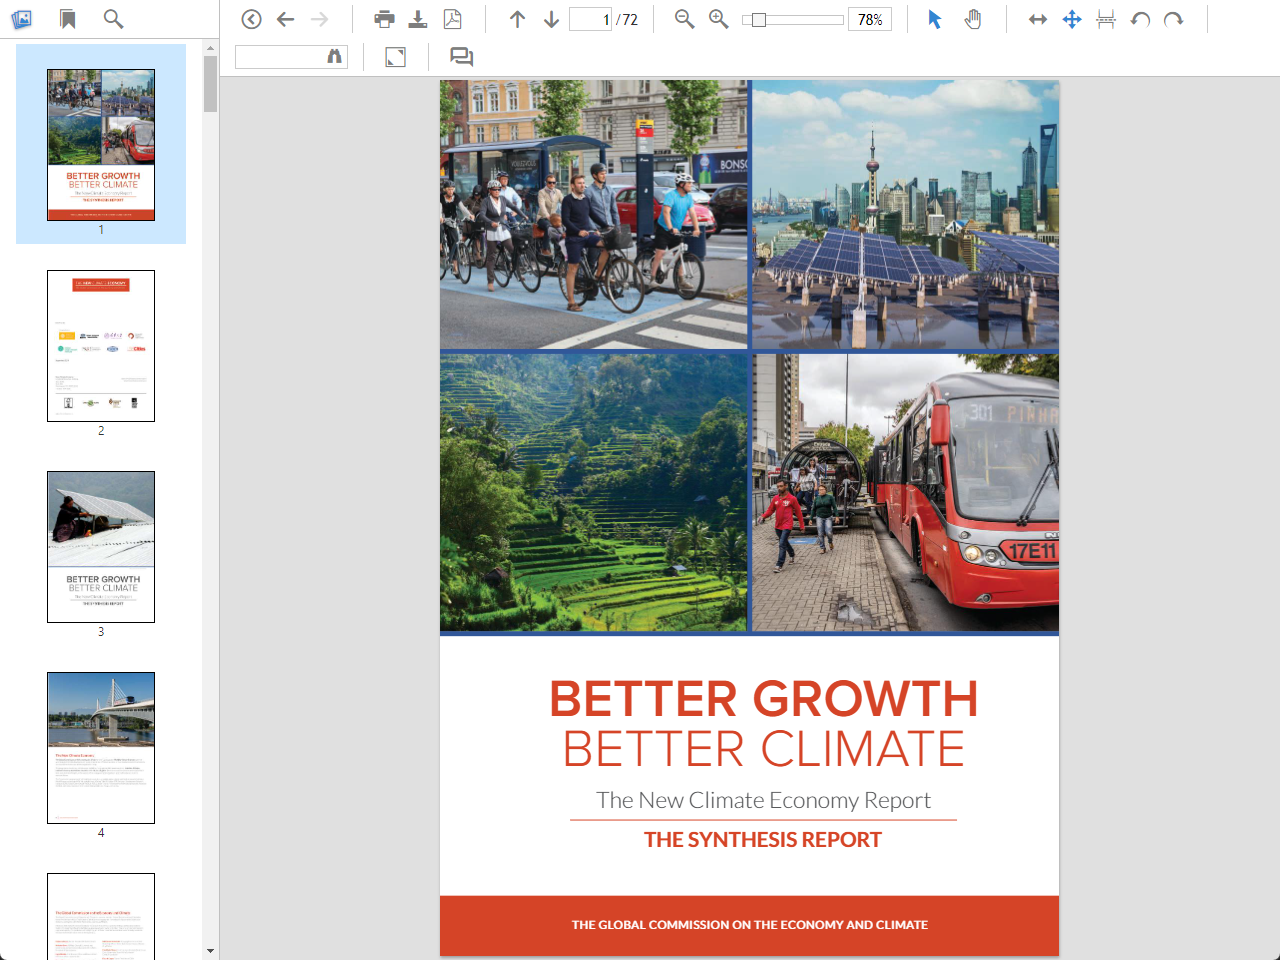
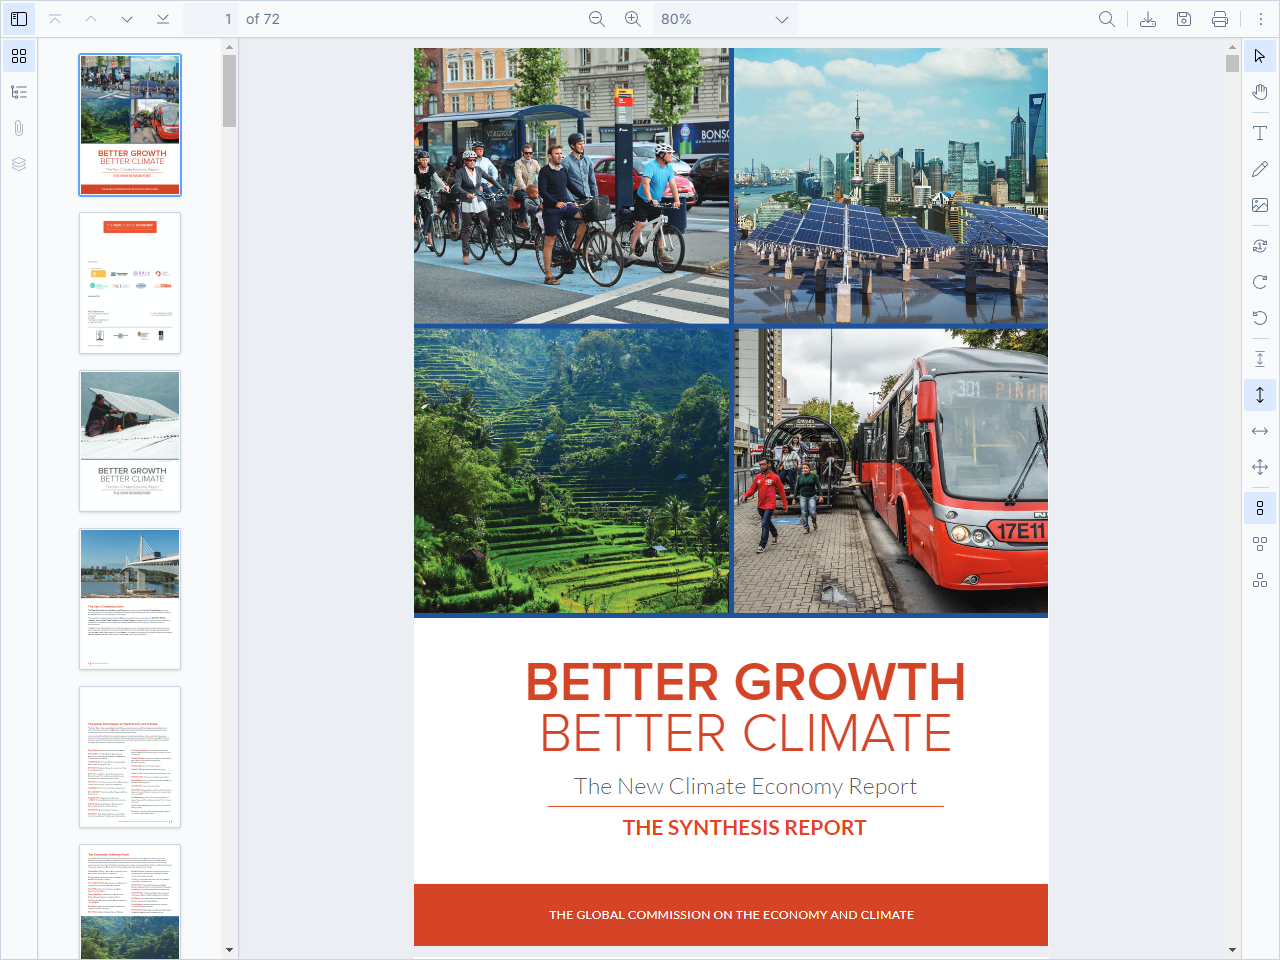
Updated screenshot and video link
Updated screenshot with new UI and added new Getting Started video for ASP.NET Core

diff --git a/README.md b/README.md
@@ -28,7 +28,7 @@ https://docs.gleamtech.com/documentultimate/html/using-documentultimate-in-an-as
 https://docs.gleamtech.com/documentultimate/html/using-documentultimate-in-an-asp-net-webforms-project.htm
 
 ### Showcase videos:
-[![ASP.NET Core Document Viewer - Getting Started](https://i.ytimg.com/vi/JeX0SWaFlow/maxresdefault.jpg)](https://youtu.be/JeX0SWaFlow "ASP.NET Core Document Viewer - Getting Started")
+[![ASP.NET Core Document Viewer - Getting Started](https://i.ytimg.com/vi/3bBXxFvrquM/maxresdefault.jpg)](https://youtu.be/3bBXxFvrquM "ASP.NET Core Document Viewer - Getting Started")
 
 [![ASP.NET MVC Document Viewer - Getting Started](https://i.ytimg.com/vi/YZGlpt--g6Q/maxresdefault.jpg)](https://youtu.be/YZGlpt--g6Q "ASP.NET MVC Document Viewer - Getting Started")
 
